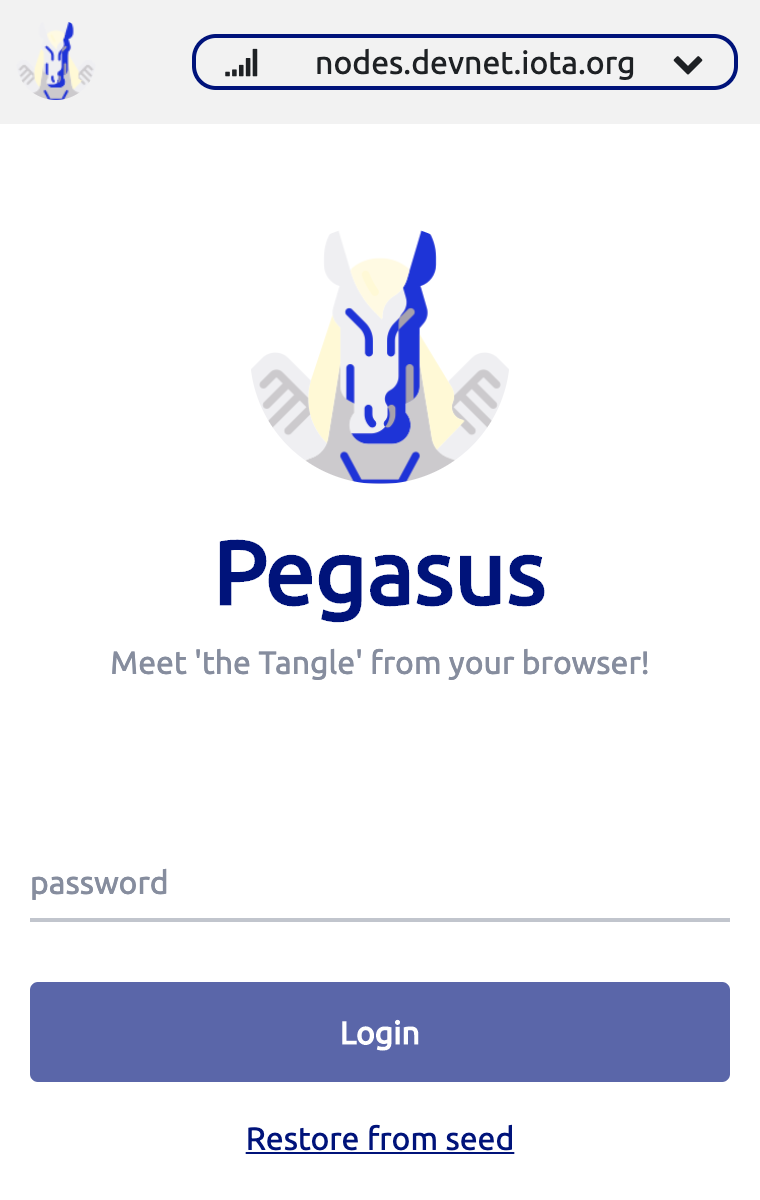
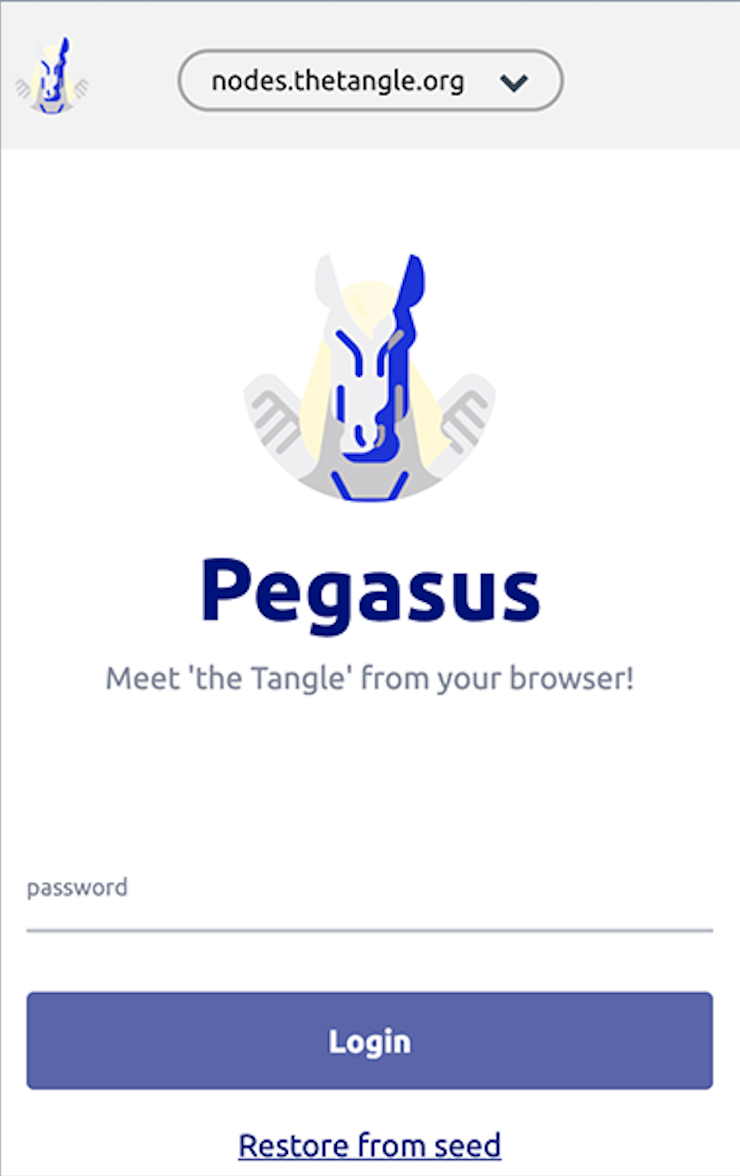
feat(global): updates website

diff --git a/src/content/about/index.md b/src/content/about/index.md
@@ -1,6 +1,6 @@
 ---
 title: 'About Me'
-avatar: './me.jpg'
+avatar: './me.png'
 skills:
   - Bitcoin
   - Ethereum
@@ -14,8 +14,8 @@ skills:
   - Cryptography
   - Rust
   - React / React Native
-  - Redux
-  - Github
+  - Redux (saga and thunk)
+  - git
   - Express
   - Typescript
   - AWS
@@ -23,7 +23,6 @@ skills:
   - C++
   - Serverless Framework
   - HTML & (S)CSS
-  - Angular 6/7
 ---
 
 Hello! I’m Alessandro, a blockchain engineer based in Felegara, Italy.
@@ -33,6 +32,6 @@ I love working in this industry and getting to build new things, but love even m
 
 During my last year of studies at Politecnico di Torino, i started working at Deloitte's EMEA Blockchain Lab in Milan.
 
-Currently i'm working as Software Engineer at Provable (Oraclize 2.0) on the [pTokens](https://dapp.ptokens.io/) project (a project that I consider very interesting).
+Currently i'm working as CTO at Eidoo Wallet and as Blockchain Engineer at Provable Things (Oraclize 2.0).
 
 Here's a few technologies I've been working with or have studied in depth recently:

diff --git a/src/content/projects/merke-patricia-tree/index.md b/src/content/projects/merke-patricia-tree/index.md
@@ -1,0 +1,16 @@
+---
+date: '2020-10-05'
+title: 'merkle-patricia-tree'
+image: ''
+github: 'https://github.com/allemanfredi/merkle-patricia-tree'
+external: ''
+tech:
+  - blockchain
+  - eth
+  - rust
+show: 'true'
+---
+
+Simple implementation of Patricia Merkle Tree. All of the merkle tries in Ethereum use a Merkle Patricia Trie.
+
+The modified Merkle Patricia tree (trie) provides a persistent data structure to map between arbitrary-length binary data (byte arrays). It is defined in terms of a mutable data structure to map between 256-bit binary fragments and arbitrary-length binary data. The core of the trie, and its sole requirement in terms of the protocol specification is to provide a single 32-byte value that identifies a given set of key-value pairs.

diff --git a/src/content/featured/Pegasus/index.md b/src/content/featured/Pegasus/index.md
@@ -11,10 +11,7 @@ tech:
   - iotajs-injection
   - react
   - google-chrome-extension
-  - iota-mam
 show: 'true'
 ---
 
-Pegasus is an extension for Google Chrome developed by myself that implements a wallet for IOTA.
-This wallet also injects the IotaJS library into the content script of each page. This mechanism makes it possible for developers to interact directly with libraries, without posing the problem of how to keep the seed safe.
-Moreover it allows to monitor MAM Channel thanks MAM Explorer.
+Pegasus is a Browser extension that implements a wallet for the IOTA cryptocurrency. In addition, Pegasus injects the iotajs library allowing developers to interact with IOTA Tangle without paying attention on how to keep the seed safe.

diff --git a/src/content/jobs/Provable/index.md b/src/content/jobs/Provable/index.md
@@ -1,7 +1,7 @@
 ---
 date: '2019-05-09'
 title: 'Software Engineer'
-company: 'Provable'
+company: 'Provable Things'
 location: 'London, UK'
 range: 'Sept 2019 - Now'
 url: 'https://provable.xyz/'
@@ -13,3 +13,5 @@ url: 'https://provable.xyz/'
 - Development of EOS Smart Contract with C++.
 - Development of frontend + backend (NodeJS & Express & MongoDB) for the [pTokens.io](https://ptokens.io/) website.
 - Maintenance of the remix plugin (Solidity online IDE) to allow users to integrate the oracle service offered by Provable within the JS VM offered by remix.
+- Development of [steroids.finance](https://steroids.finance) dapp.
+- Development of [pNetwork DAO](https://mainnet.aragon.org/#/pnetwork)

diff --git a/src/content/jobs/Eidoo/index.md b/src/content/jobs/Eidoo/index.md
@@ -1,0 +1,15 @@
+---
+date: '2020-01-08'
+title: 'Chief Technology Officer'
+company: 'Eidoo'
+location: 'Lugano, CH'
+range: 'Aug 2020 - Now'
+url: 'https://eidoo.io/'
+---
+
+- Coordination of the tech team.
+- Code reviews.
+- Design and development of the Eidoo Card powered by Loopring.
+- Desing, development and maintenance of the Eidoo Wallet app.
+- Development of [steroids.finance](https://steroids.finance) dapp.
+- Development of [pNetwork DAO](https://mainnet.aragon.org/#/pnetwork)
